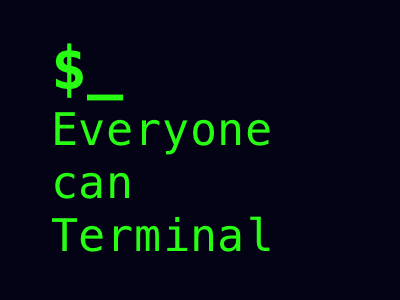
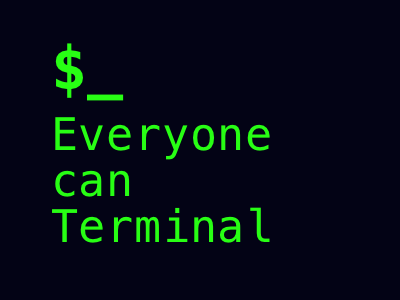
new cover image, default text color of terminal changes

diff --git a/PlaygroundBook/Sources/TerminalSettings.swift b/PlaygroundBook/Sources/TerminalSettings.swift
@@ -61,12 +61,12 @@ public struct TerminalSettings {
     }
     
     public init() {
-        self.textColor = .white
+        self.textColor = UIColor(displayP3Red: 40/255, green: 254/255, blue: 20/255, alpha: 1.0)
         self.textSize = 16.0
         self.backgroundColor = .black
-        self.username = "TuanTuDo"
+        self.username = "tuan"
         self.textFont = Fonts.menlo.rawValue
-        self.currentPath = "/Users/TuanTuDo"
+        self.currentPath = "/Users/tuan"
     }
     
 }
